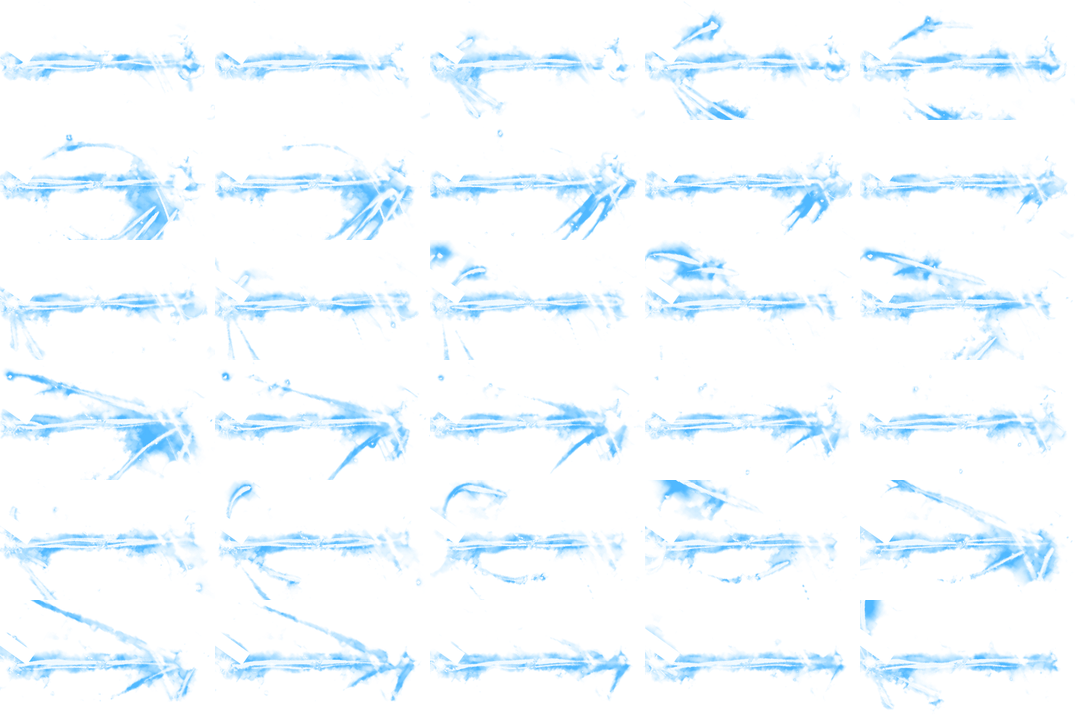
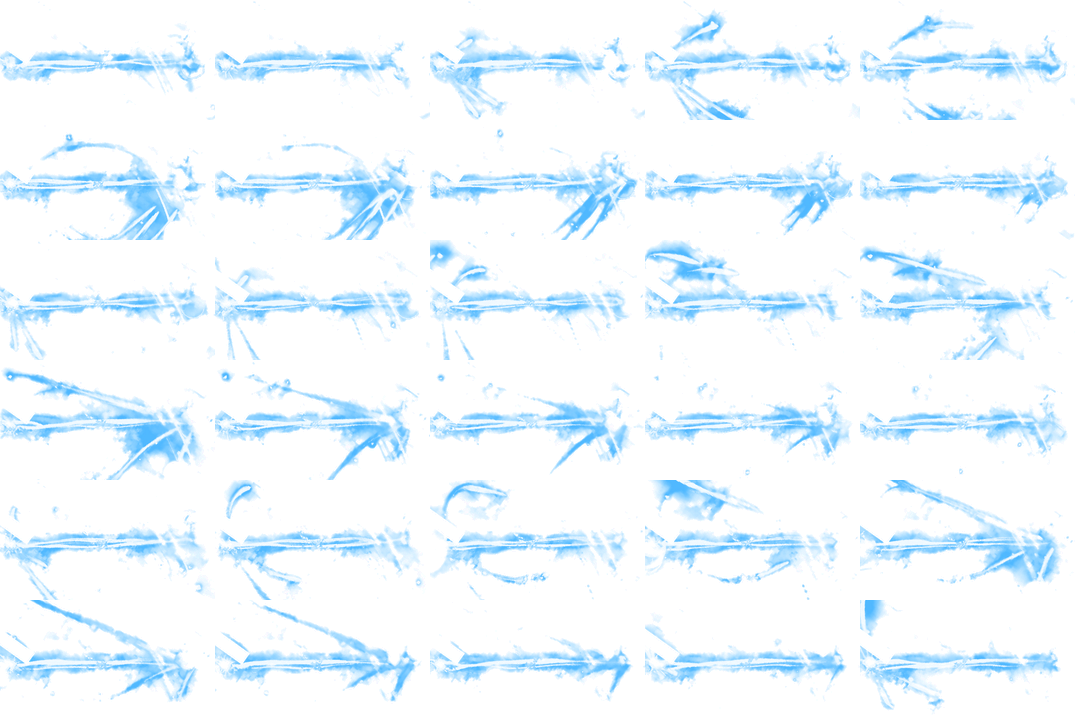
vfx-lab: Ngân Hà Hàn Lưu — thêm lõi tia ổn định (đo từ video) dưới lớp động, đậm hơn, bớt chập chờn
Claude-Session: https://claude.ai/code/session_014A94BHnyL4tu48AS77QbVM

diff --git a/src/vfx/skillFx.ts b/src/vfx/skillFx.ts
@@ -1526,22 +1526,24 @@ const lienHoa: Fx = (s, aw) => {
 
 /** Ngân Hà Hàn Lưu: luồng sáng băng lấy từ video mẫu (tools/art/ngan_ha.py): 30 khung 215×120, tia nằm ngang,
  *  điểm đầu ở x = 0.0698, độ dài tia trong khung = 172 px → game kéo dài theo khoảng cách, chạy lặp, cộng sáng */
-export const NGAN_HA = { beam: 'vx_ngan_ha_beam', fw: 215, fh: 120, n: 30, ox: 0.0698, len: 172 } as const;
+export const NGAN_HA = { beam: 'vx_ngan_ha_beam', core: 'vx_ngan_ha_core', fw: 215, fh: 120, n: 30, ox: 0.0698, len: 172 } as const;
 const nganHa: Fx = (s, aw) => {
   const k = s.kit, sc = k.scene;
   const AK = 'vx_ngan_ha_anim';
-  if (!sc.anims.exists(AK)) sc.anims.create({ key: AK, frames: sc.anims.generateFrameNumbers(NGAN_HA.beam, { start: 0, end: NGAN_HA.n - 1 }), frameRate: 15, repeat: -1 });
+  if (!sc.anims.exists(AK)) sc.anims.create({ key: AK, frames: sc.anims.generateFrameNumbers(NGAN_HA.beam, { start: 0, end: NGAN_HA.n - 1 }), frameRate: 12, repeat: -1 });
   const n = aw ? 3 : 1;
   const RANGE = aw ? 320 : 260;
   const DUR = 2400;
   const COL = 0x9fe8ff;
   const src = () => pt(s.hero.x, s.hero.y - 18);
-  type Ray = { sp: Phaser.GameObjects.Sprite; t: Pt | null; hitAt: number };
+  // 2 lớp: LÕI ổn định (thân tia đo từ video, cố định) + lớp ĐỘNG (30 khung video, dòng khí uốn lượn) → rõ, không chập chờn
+  type Ray = { sp: Phaser.GameObjects.Sprite; core: Phaser.GameObjects.Image; t: Pt | null; hitAt: number };
   const rays: Ray[] = [];
   for (let i = 0; i < n; i++) {
     const sp = sc.add.sprite(0, 0, NGAN_HA.beam, 0).setOrigin(NGAN_HA.ox, 0.5).setBlendMode(Phaser.BlendModes.ADD).setDepth(20).setAlpha(0);
     sp.play({ key: AK, startFrame: (i * 10) % NGAN_HA.n });
-    rays.push({ sp, t: null, hitAt: 0 });
+    const core = sc.add.image(0, 0, NGAN_HA.core).setOrigin(NGAN_HA.ox, 0.5).setBlendMode(Phaser.BlendModes.ADD).setDepth(19).setAlpha(0);
+    rays.push({ sp, core, t: null, hitAt: 0 });
   }
   const srcGlow = k.img(VT.SOFT, 0, 0, { tint: COL, scale: 0.5, alpha: 0.8, depth: 21 });
   const pick = (r: Ray) => {
@@ -1558,11 +1560,12 @@ const nganHa: Fx = (s, aw) => {
       srcGlow.setPosition(h.x, h.y).setAlpha(0.8 * fade).setScale(0.45 + Math.sin(t / 60) * 0.06);
       for (const r of rays) {
         if (!r.t || !s.targets().includes(r.t) || dist(r.t, h) > RANGE) pick(r);
-        if (!r.t) { r.sp.setAlpha(0); continue; }
+        if (!r.t) { r.sp.setAlpha(0); r.core.setAlpha(0); continue; }
         const e = pt(r.t.x, r.t.y - 14);
         const L = dist(h, e);
-        r.sp.setPosition(h.x, h.y).setRotation(Math.atan2(e.y - h.y, e.x - h.x))
-          .setScale(L / NGAN_HA.len, Phaser.Math.Clamp(L / NGAN_HA.len, 0.75, 1.1)).setAlpha(fade);
+        const rot = Math.atan2(e.y - h.y, e.x - h.x), sx = L / NGAN_HA.len, sy = Phaser.Math.Clamp(sx, 1.0, 1.3);
+        r.sp.setPosition(h.x, h.y).setRotation(rot).setScale(sx, sy).setAlpha(fade);
+        r.core.setPosition(h.x, h.y).setRotation(rot).setScale(sx, sy * (0.95 + Math.sin(t / 45) * 0.05)).setAlpha(fade);
         if (t - r.hitAt > 300 && fade > 0.5) {
           r.hitAt = t;
           s.hit(r.t, COL);
@@ -1570,7 +1573,7 @@ const nganHa: Fx = (s, aw) => {
           k.burst(e.x, e.y, 0xcff4ff, 4, { tex: VT.SHARD, speed: [60, 160], scale: [0.5, 0.2], rotate: true, life: 350 });
         }
       }
-      if (t >= DUR) { ev.remove(); for (const r of rays) r.sp.destroy(); srcGlow.destroy(); }
+      if (t >= DUR) { ev.remove(); for (const r of rays) { r.sp.destroy(); r.core.destroy(); } srcGlow.destroy(); }
     },
   });
 };

diff --git a/src/vfxlab/main.ts b/src/vfxlab/main.ts
@@ -45,7 +45,8 @@ class LabScene extends Phaser.Scene {
     this.load.spritesheet(BLACK_HOLE.key, '/vfx/black_hole.png?v=1', { frameWidth: BLACK_HOLE.fw, frameHeight: BLACK_HOLE.fh });
     this.load.spritesheet(PHAP_TUONG.avatar, '/vfx/phap_tuong_avatar.png?v=2', { frameWidth: PHAP_TUONG.avW, frameHeight: PHAP_TUONG.avH });
     this.load.image(LOTUS.tex, '/vfx/lotus_top.png?v=2');
-    this.load.spritesheet(NGAN_HA.beam, '/vfx/ngan_ha_beam.png?v=1', { frameWidth: NGAN_HA.fw, frameHeight: NGAN_HA.fh });
+    this.load.image(NGAN_HA.core, '/vfx/ngan_ha_core.png?v=1');
+    this.load.spritesheet(NGAN_HA.beam, '/vfx/ngan_ha_beam.png?v=2', { frameWidth: NGAN_HA.fw, frameHeight: NGAN_HA.fh });
     this.load.image(LOTUS.petal, '/vfx/lotus_petal.png?v=1');
     this.load.image(PHAP_TUONG.palm, '/vfx/phap_tuong_palm.png?v=5');
     for (const [k, f] of Object.entries(QI_BLADE)) this.load.image(f, `/vfx/qi_blade_${k}.png?v=3`);

diff --git a/tools/art/ngan_ha.py b/tools/art/ngan_ha.py
@@ -6,6 +6,7 @@ NGÂN HÀ HÀN LƯU — luồng sáng băng lấy từ video mẫu tools/art/ref
     màu: trắng ở chỗ gốc trắng chói, còn lại lam băng
   · che thanh máu xanh của giao diện gần điểm đầu
   → public/vfx/ngan_ha_beam.png (bảng khung, game kéo dài theo khoảng cách và chạy lặp), cộng sáng
+  → public/vfx/ngan_ha_core.png (trung vị theo thời gian: thân tia ổn định, vẽ cố định bên dưới)
   python3 -I tools/art/ngan_ha.py  (cần ffmpeg)
 """
 import os
@@ -61,6 +62,26 @@ def main():
             img = img.resize((int((BACK + AHEAD) * SC), int(2 * HALF * SC)), Image.LANCZOS)
             frames.append(np.array(img).astype(float))
     fh, fw = frames[0].shape[:2]
+    # LÕI ỔN ĐỊNH: thân tia chính có mặt ở phần lớn các khung (bách phân vị 70 theo thời gian) — giữ vân khí của video,
+    # làm mượt dọc chiều tia để lấp chỗ vật thể đi ngang che tia; vẽ cố định bên dưới lớp động → luồng khí rõ, không chập chờn
+    st = np.stack(frames)
+    pa = np.percentile(st[..., 3], 70, 0) / 255
+    pw = np.percentile(np.stack([f[..., 0] for f in frames]), 70, 0)        # kênh đỏ cao = chỗ trắng
+    x0 = int(BACK * SC)
+    x1 = x0 + int(np.hypot(EX - SX, EY - SY) * SC)
+    band = np.zeros_like(pa); band[int(HALF * SC) - 22:int(HALF * SC) + 22, :] = 1      # chỉ thân tia chính, bỏ dòng khí lạc
+    band = ndimage.gaussian_filter(band, 3)
+    xs = np.arange(fw)
+    taper = np.clip((xs - x0 + 4) / 8, 0, 1) * np.clip((x1 + 14 - xs) / 16, 0, 1)
+    ca = ndimage.gaussian_filter(pa * band, (0.7, 4)) * taper[None, :]
+    ca = np.clip(ca * 1.5, 0, 1) ** 0.8
+    wv = ndimage.gaussian_filter(pw * band, (0.7, 4))
+    wh = np.clip((wv - 140) / 80, 0, 1)[..., None] * np.clip(ca * 1.2, 0, 1)[..., None]
+    ccol = np.array([90, 190, 255.]) * (1 - wh) + np.array([245, 252, 255.]) * wh
+    Image.fromarray(np.dstack([ccol, ca * 255]).astype(np.uint8), 'RGBA').save(os.path.join(VFX, 'ngan_ha_core.png'))
+    # lớp động: đậm hơn (độ đục ^0.65)
+    for fr in frames:
+        fr[..., 3] = 255 * (fr[..., 3] / 255) ** 0.65
     COLS = 5
     rows = (len(frames) + COLS - 1) // COLS
     sheet = np.zeros((rows * fh, COLS * fw, 4))
